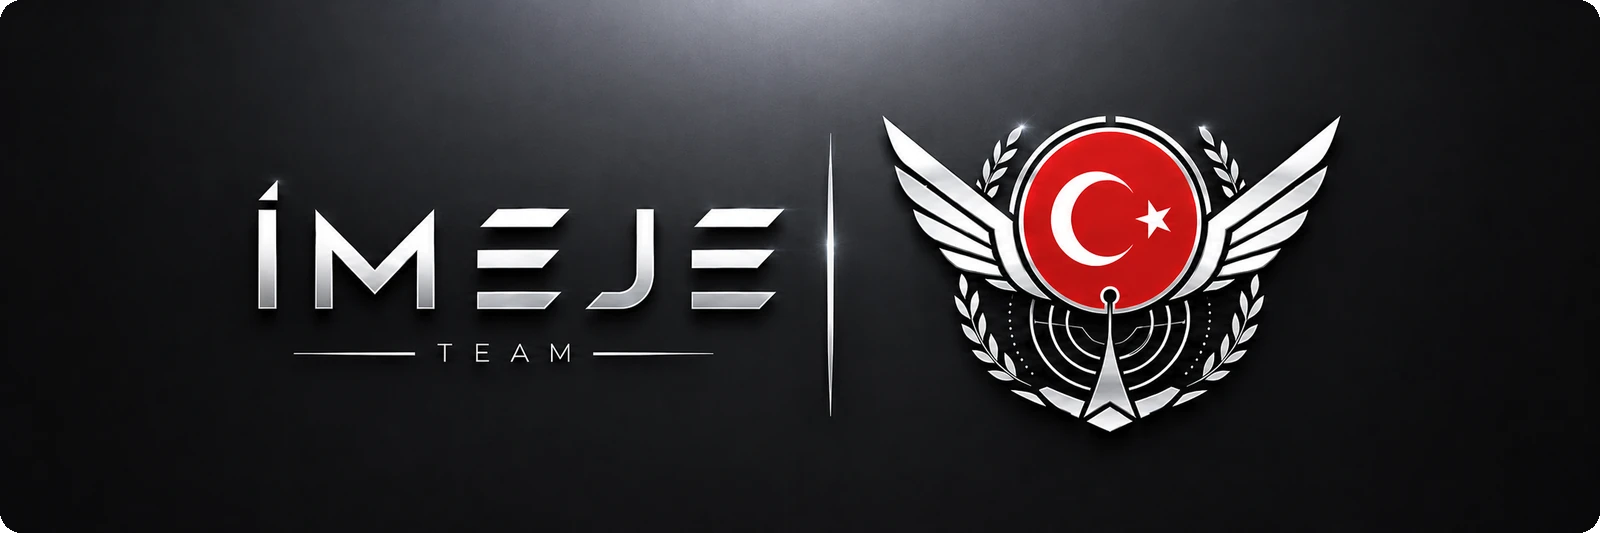
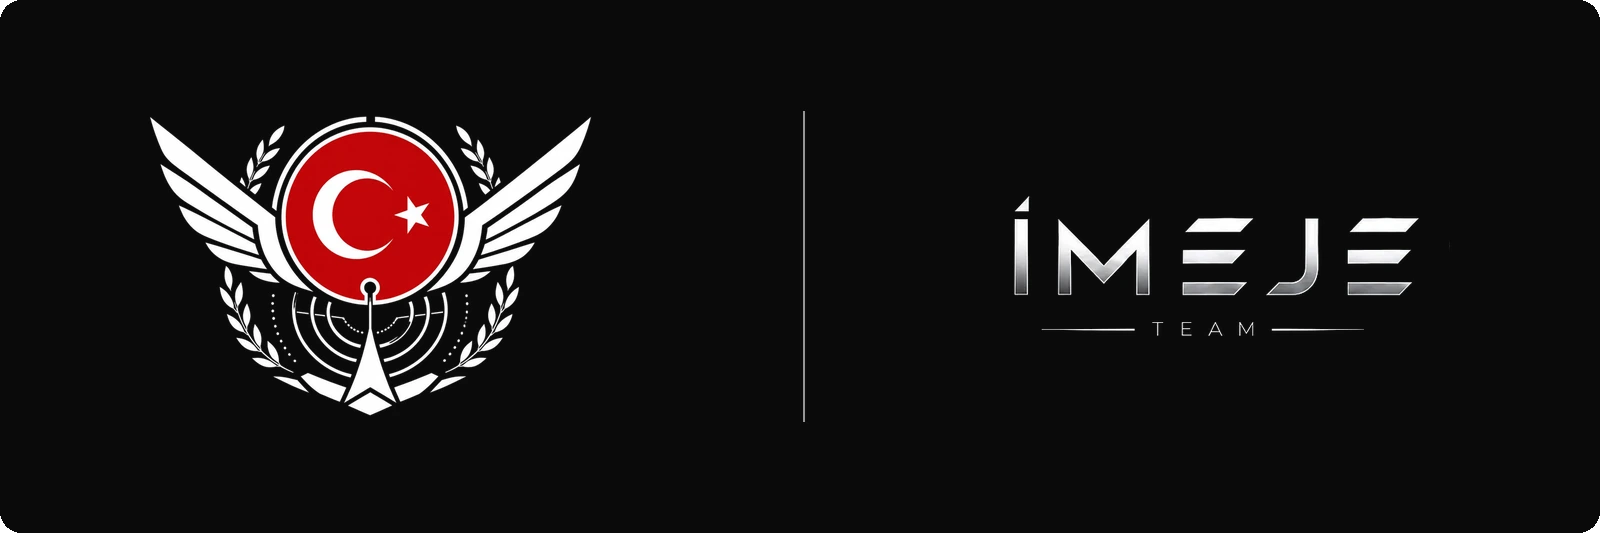
Header: arma solda, İMEJE TEAM sağda
Logo banner'dan kesildi, zemin seviyesi çıkarılarak alfaya
çevrildi. Dekoratif katman yok, düz siyah.

diff --git a/README.md b/README.md
@@ -1,4 +1,4 @@
-<img src="https://raw.githubusercontent.com/EmrhnHARPUT/EmrhnHARPUT/main/assets/header.webp?v=1" width="100%" alt=""/>
+<img src="https://raw.githubusercontent.com/EmrhnHARPUT/EmrhnHARPUT/main/assets/header.webp?v=3" width="100%" alt=""/>
 
 <img src="https://raw.githubusercontent.com/EmrhnHARPUT/EmrhnHARPUT/main/assets/typing_vol2.svg?v=5" alt="Emirhan HARPUT"/>
 
